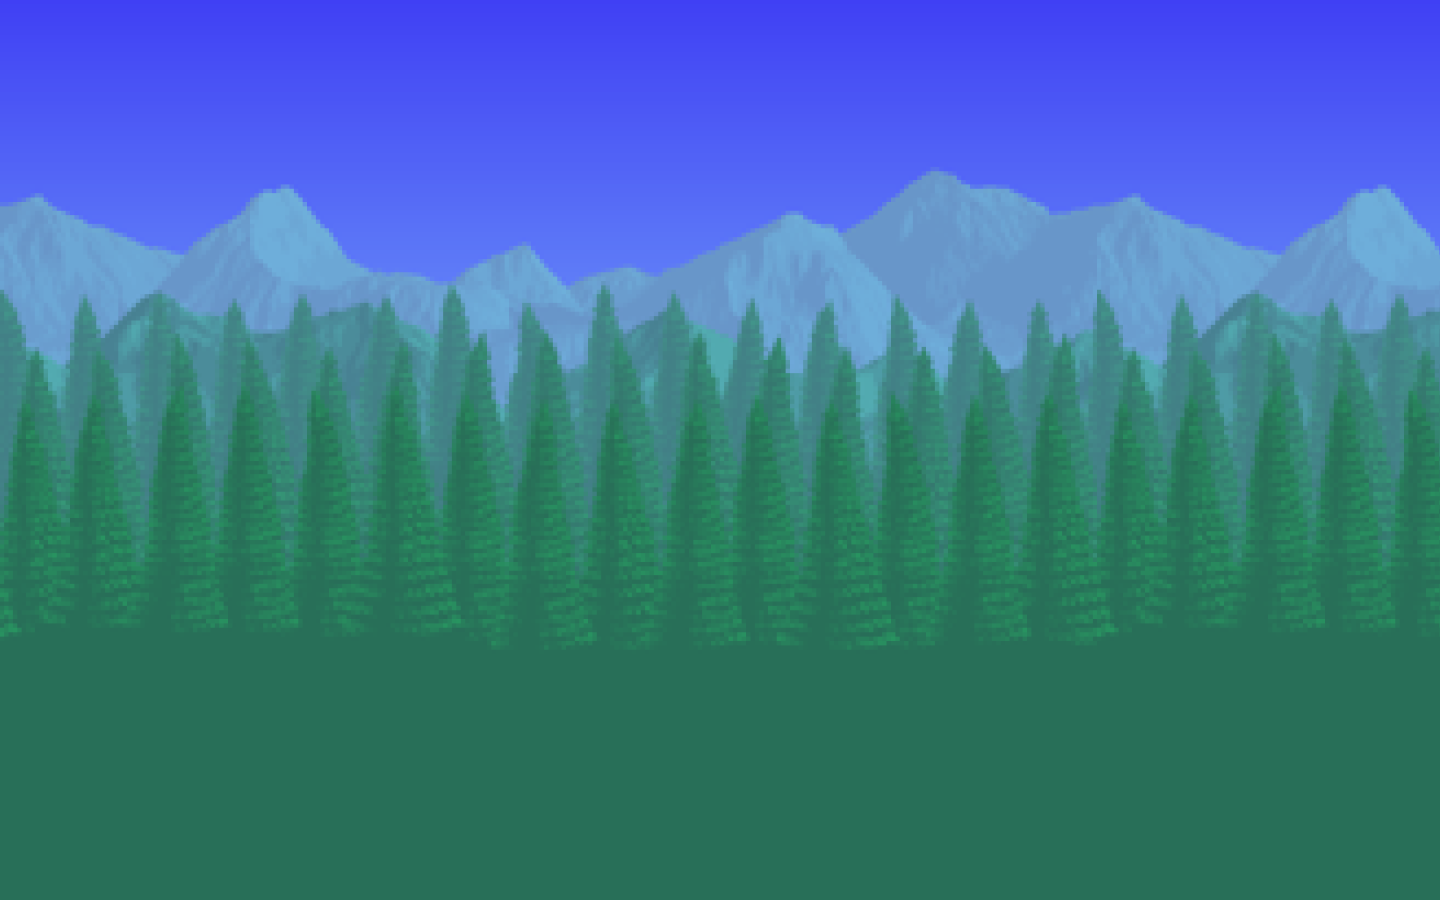
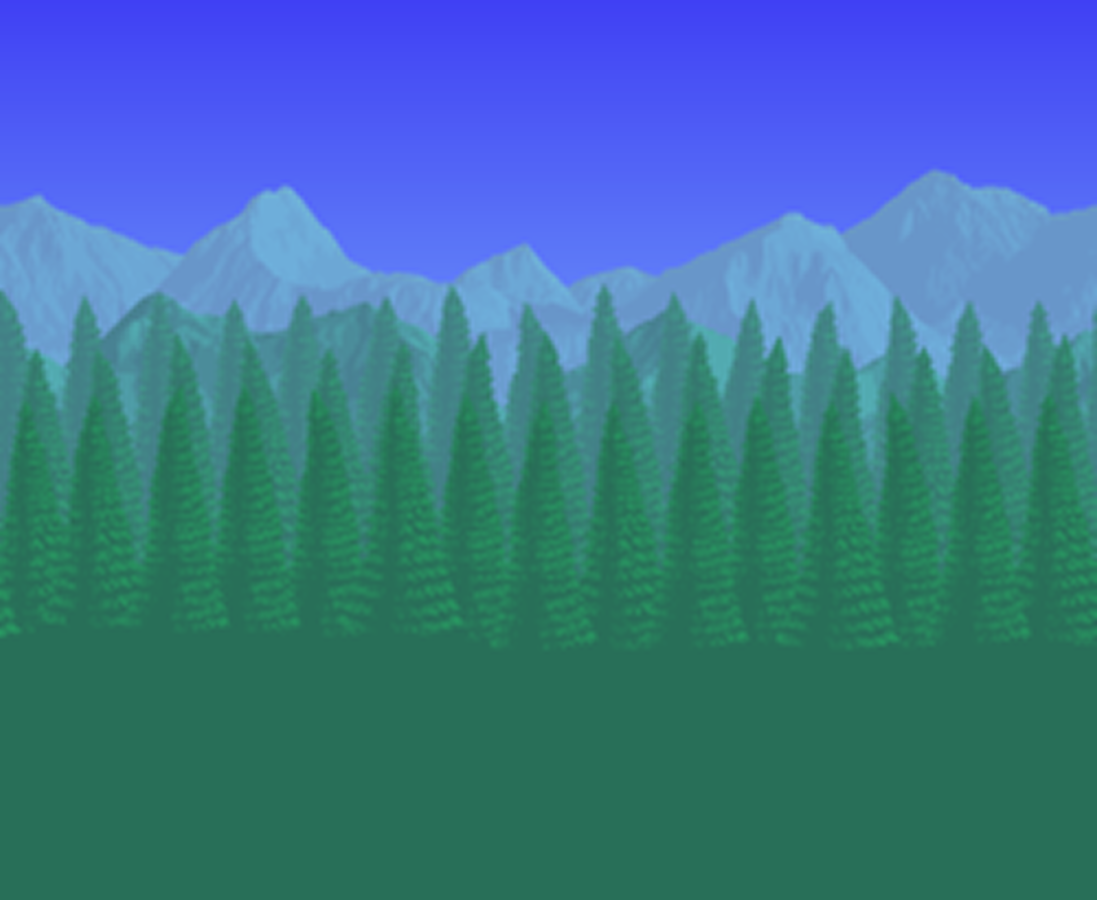
фон под разрмер экрана

diff --git a/src/main.cpp b/src/main.cpp
@@ -1,5 +1,6 @@
 #include <iostream>
 #include <vector>
+#include <cmath>
 #include "globals/globals.h"
 #include "types.h"
 #include "../../config/config.h"
@@ -39,14 +40,17 @@ void pollEvents();
 void update(vector<sf::Text>& textToPrint);
 void redrawFrame(const vector<sf::Text>& textToPrint);
 
+const sf::VideoMode desktopMode = sf::VideoMode::getDesktopMode();
+const unsigned int SCREEN_WIDTH = desktopMode.width;
+const unsigned int SCREEN_HEIGHT = desktopMode.height;
+const unsigned int BG_WIDTH = 1097;
+const unsigned int BG_HEIGHT = 900;
+
 int main() {
     config = initConfig();
     keymap = getKeymap();
 
     initDepends();
-    const sf::VideoMode desktopMode = sf::VideoMode::getDesktopMode();
-    const unsigned int SCREEN_WIDTH = desktopMode.width;
-    const unsigned int SCREEN_HEIGHT = desktopMode.height;
 
     cout << SCREEN_WIDTH << ' ' << SCREEN_HEIGHT << endl;
 
@@ -139,9 +143,22 @@ void update(std::vector<sf::Text>& textToPrint) {
     }
 }
 
+void drawBG() {
+    const float relY = static_cast<float>(SCREEN_HEIGHT) / static_cast<float>(BG_HEIGHT);
+    BGSprite.setScale({1, relY});
+
+    const float relX = static_cast<float>(SCREEN_WIDTH) / static_cast<float>(BG_WIDTH);
+    const int screens = static_cast<int>(ceil(relX));
+    for (int i = 0; i < screens; i++) {
+        const float bgPos = i * BG_WIDTH;
+        BGSprite.setPosition({bgPos, 0});
+        window.draw(BGSprite);
+    }
+}
+
 void redrawFrame(const std::vector<sf::Text>& textToPrint) {
     window.clear();
-    window.draw(BGSprite);
+    drawBG();
 
     switch (curState) {
         case GameState::MAIN_MENU:

diff --git a/src/resources/ui/ui.cpp b/src/resources/ui/ui.cpp
@@ -12,6 +12,8 @@ void initUITextures() {
 }
 
 void initUI() {
+
+
     constexpr float BAR_LENGTH = 10.f;
     constexpr float BAR_HEIGHT = 70.f;
     constexpr float X_OFFSET = 1400.f;
